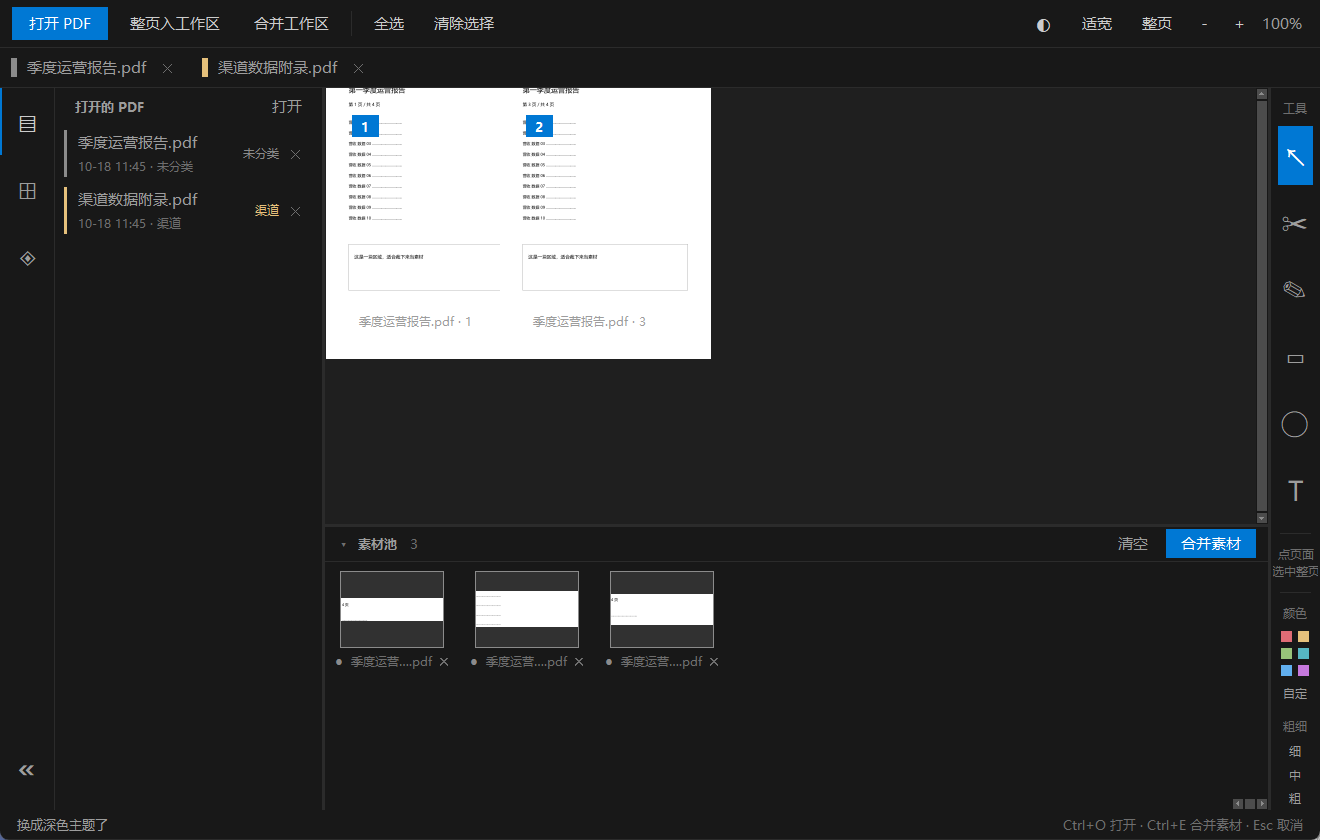
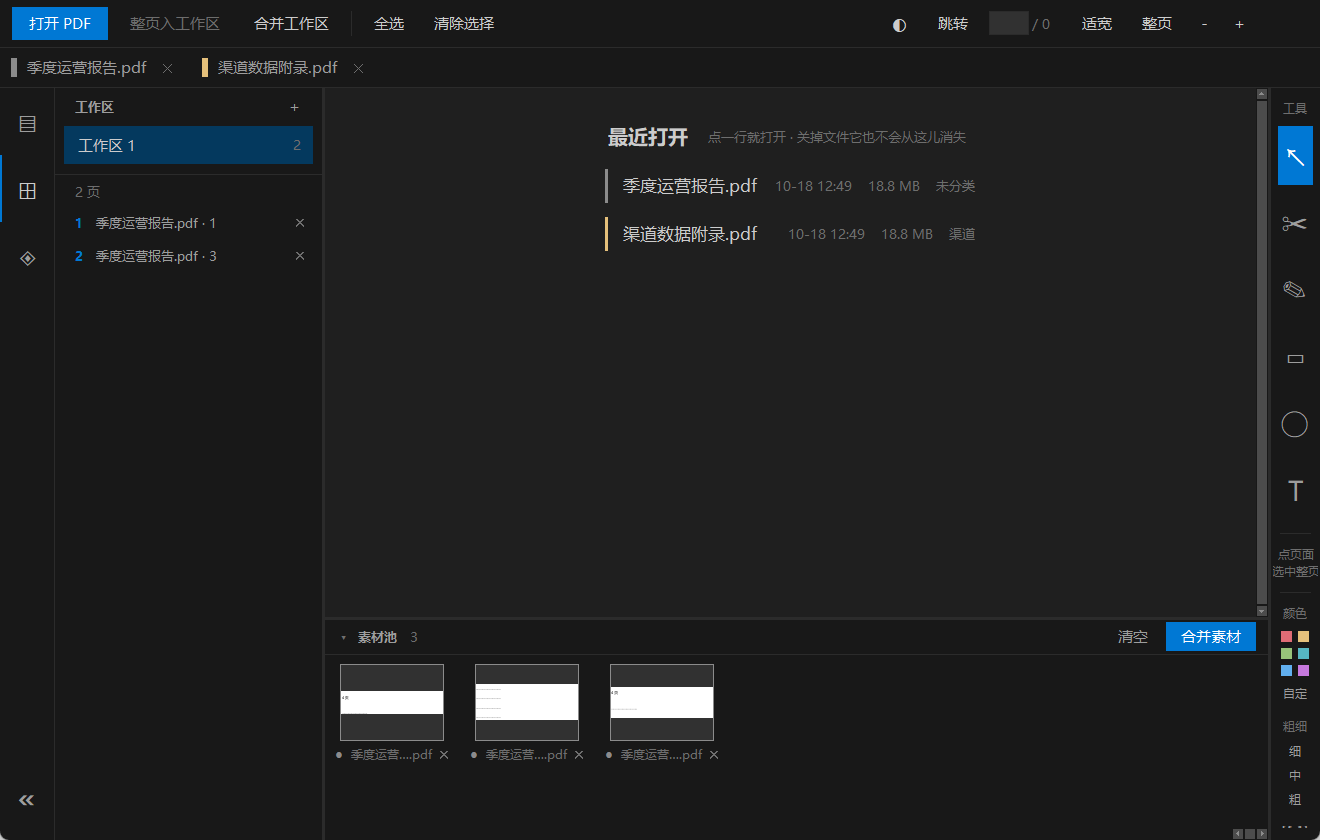
换掉过时的界面截图，补全 README 和导出设置
- 界面截图之前被设置窗口挡着，重拍
- visual.py 截完设置面板顺手把它关掉，免得挡后面那张
- 切回文档视图时同步页码显示

diff --git a/tools/visual.py b/tools/visual.py
@@ -155,6 +155,17 @@ def main():
     x, y = win.winfo_rootx(), win.winfo_rooty()
     w, h = win.winfo_width(), win.winfo_height()
 
+    # 主界面（README 用的那张）
+    win.show_doc_view()
+    win.set_tool("select")
+    if win._crop_rect:
+        win._cancel_crop()
+    for _ in range(50):
+        win.update()
+        time.sleep(0.02)
+    ImageGrab.grab(bbox=(x, y, x + w, y + h)).save(
+        os.path.join(ROOT, "示例界面.png"))
+
     # 浅色主题来一张
     win.set_theme("light")
     for _ in range(50):
@@ -191,12 +202,26 @@ def main():
     ImageGrab.grab(bbox=(x, y, x + w, y + h)).save(
         os.path.join(ROOT, "示例-设置.png"))
 
+    # 关掉设置窗口，免得它挡住后面那张
+    for child in win.winfo_children():
+        if child.winfo_class() == "Toplevel":
+            try:
+                child.destroy()
+            except Exception:
+                pass
+    for _ in range(20):
+        win.update()
+        time.sleep(0.02)
+
     # 欢迎页：关掉文件之后中间那块「最近打开」
     if win.doc_path:
         win.close_path(win.doc_path)
-    out = os.path.join(ROOT, "tests", "_ui.png")
-    ImageGrab.grab(bbox=(x, y, x + w, y + h)).save(out)
-    print("saved:", out, (w, h))
+    for _ in range(40):
+        win.update()
+        time.sleep(0.02)
+    ImageGrab.grab(bbox=(x, y, x + w, y + h)).save(
+        os.path.join(ROOT, "示例-最近打开.png"))
+    print("saved screenshots")
 
     win.destroy()
     return 0

diff --git a/app.py b/app.py
@@ -2292,6 +2292,7 @@ class App(tk.Tk):
         self.mode = "doc"
         if self.doc_path and self.pages:
             self._relayout()
+            self._sync_page_label()
         else:
             self.show_empty()
 
